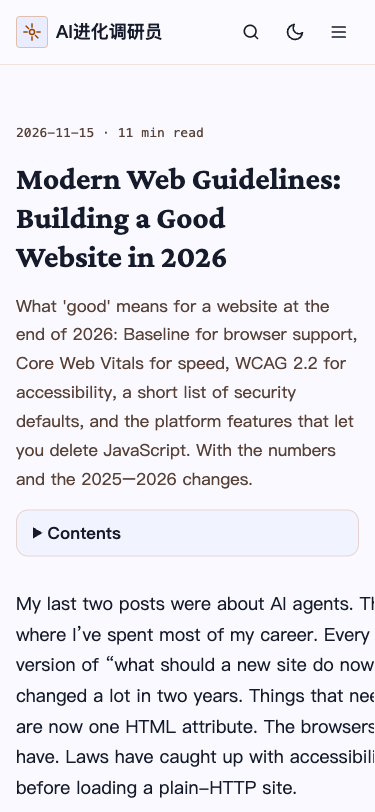
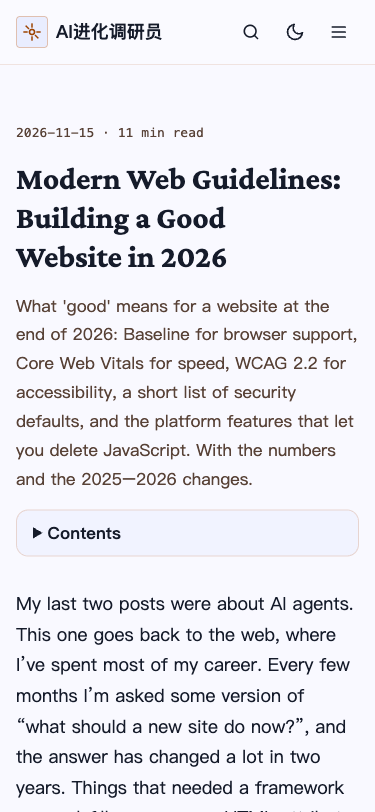
fix: final-review findings (375px overflow, mixed search, paged canonical, popover fallback, entities)
- Grid tracks use minmax(0, 1fr) so long code/tables scroll in their box
  instead of widening the page; new real-viewport layout check at 375px.
- Search merges per-term results (union, ranked by terms matched), so mixed
  zh/en queries still reach English notes.
- Paginated article and category pages declare their own canonical/og:url.
- Browsers without the Popover API get a scrolling nav row, not a stuck menu.
- Entities no longer leak into RSS, index.json or JSON-LD (htmlUnescape after
  plainify and after truncate).
- Raw-HTML warnings from synced text no longer fail the strict build.

Claude-Session: https://claude.ai/code/session_01Q3ZdR2YQmXRkxRrA32nDua

Changed region(s): [[0.0293, 0.7081, 0.9973, 0.9852]]

diff --git a/themes/evo/layouts/_partials/seo.html b/themes/evo/layouts/_partials/seo.html
@@ -1,16 +1,18 @@
 {{- /* SEO head tags: description, canonical, Open Graph, Twitter, verification, feeds, JSON-LD. */ -}}
 {{- $lang := partial "lang.html" . -}}
-{{- $desc := .Params.summary | default .Summary | default site.Params.description | plainify | strings.TrimSpace | truncate 160 -}}
+{{- $desc := .Params.summary | default .Summary | default site.Params.description | plainify | htmlUnescape | strings.TrimSpace | truncate 160 -}}
 {{- if .IsHome }}{{ $desc = site.Params.description }}{{ end -}}
 {{- $img := partial "abs-img-url.html" site.Params.shareImage -}}
 {{- with .Params.cover }}{{ if not (strings.HasSuffix . ".svg") }}{{ $img = partial "abs-img-url.html" . }}{{ end }}{{ end -}}
 {{- $isArticle := and .IsPage (in (slice "articles" "posts") .Section) -}}
+{{- $canon := .Permalink -}}
+{{- if or (and .IsSection (eq .Section "articles")) (and (eq .Kind "term") (eq .Data.Plural "categories")) }}{{ $canon = (partial "article-pager.html" .).URL | absURL }}{{ end -}}
 <meta name="description" content="{{ $desc }}">
-<link rel="canonical" href="{{ .Permalink }}">
+<link rel="canonical" href="{{ $canon }}">
 <meta property="og:site_name" content="{{ site.Title }}">
 <meta property="og:title" content="{{ if .IsHome }}{{ site.Title }}{{ else }}{{ .Title }}{{ end }}">
 <meta property="og:description" content="{{ $desc }}">
-<meta property="og:url" content="{{ .Permalink }}">
+<meta property="og:url" content="{{ $canon }}">
 <meta property="og:image" content="{{ $img }}">
 <meta property="og:locale" content="{{ index hugo.Data.i18n $lang "og_locale" }}">
 <meta property="og:type" content="{{ if $isArticle }}article{{ else }}website{{ end }}">

diff --git a/themes/evo/assets/js/search-core.js b/themes/evo/assets/js/search-core.js
@@ -9,22 +9,24 @@ const OPTIONS = {
   includeScore: true,
 };
 
-// Each whitespace-separated term is searched on its own and the results are intersected,
-// so a mixed query like "agent 记忆" works even though Fuse scores whole strings.
+// Each whitespace-separated term is searched on its own and the results are merged (a union):
+// pages matching more terms rank first, then by average Fuse score. A mixed query like
+// "agent 记忆" therefore still finds English notes that can never contain the Chinese term.
 export function makeSearch(index) {
   const fuse = new Fuse(index, OPTIONS);
   return (query) => {
     const terms = String(query).trim().split(/\s+/).filter(Boolean);
     if (!terms.length) return [];
-    let best = null;
+    const merged = new Map();
     for (const term of terms) {
-      const hits = new Map(fuse.search(term).map((r) => [r.item.permalink, r]));
-      if (!best) { best = hits; continue; }
-      for (const [k, r] of best) {
-        const h = hits.get(k);
-        if (!h) best.delete(k); else r.score += h.score;
+      for (const r of fuse.search(term)) {
+        const m = merged.get(r.item.permalink) ?? { item: r.item, hits: 0, score: 0 };
+        m.hits += 1; m.score += r.score;
+        merged.set(r.item.permalink, m);
       }
     }
-    return [...best.values()].sort((a, b) => a.score - b.score).map((r) => r.item);
+    return [...merged.values()]
+      .sort((a, b) => b.hits - a.hits || a.score / a.hits - b.score / b.hits)
+      .map((m) => m.item);
   };
 }

diff --git a/themes/evo/assets/css/layout.css b/themes/evo/assets/css/layout.css
@@ -30,6 +30,14 @@ main:focus { outline: none; }
 .mobile-menu__close { position: absolute; inset-block-start: var(--space-m); inset-inline-end: var(--space-m); }
 .mobile-menu__nav { display: grid; gap: var(--space-m); margin-block-start: var(--space-xl); font-family: var(--font-display); font-size: 1.75rem; font-weight: 700; }
 
+/* Browsers without the Popover API (e.g. iOS < 17) would render the menu permanently:
+   hide it and its button, and show the nav as a scrolling row under the header instead. */
+@supports not selector(:popover-open) {
+  .mobile-menu, .site-header__menu { display: none; }
+  .site-header__inner { flex-wrap: wrap; block-size: auto; padding-block: var(--space-s); }
+  .site-nav { display: flex; order: 3; inline-size: 100%; overflow-x: auto; }
+}
+
 /* Footer */
 .site-footer { margin-block-start: var(--space-section); border-block-start: 1px solid color-mix(in srgb, var(--color-border) 40%, transparent); background: color-mix(in srgb, var(--color-surface) 40%, transparent); }
 .site-footer__inner { display: grid; gap: var(--space-l); padding-block: var(--space-xl); }

diff --git a/themes/evo/assets/css/components/card.css b/themes/evo/assets/css/components/card.css
@@ -1,6 +1,6 @@
-.stack-section { display: grid; gap: var(--space-section); padding-block: var(--space-xl) 0; }
+.stack-section { display: grid; grid-template-columns: minmax(0, 1fr); gap: var(--space-section); padding-block: var(--space-xl) 0; }
 @media (min-width: 768px) { .stack-section { padding-block-start: var(--space-section); } }
-.stack { display: grid; gap: var(--space-l); }
+.stack { display: grid; grid-template-columns: minmax(0, 1fr); gap: var(--space-l); }
 .section-head { display: flex; flex-wrap: wrap; align-items: baseline; justify-content: space-between; gap: var(--space-m); padding-block-end: var(--space-s); border-block-end: 1px solid color-mix(in srgb, var(--color-border) 40%, transparent); }
 .section-head h2 { font-size: var(--size-h3); }
 .section-head p { font-size: var(--size-small); color: var(--color-muted); }

diff --git a/themes/evo/assets/css/components/prose.css b/themes/evo/assets/css/components/prose.css
@@ -5,7 +5,8 @@
 .article__summary { color: var(--color-muted); }
 .article-meta { display: flex; flex-wrap: wrap; align-items: center; gap: var(--space-s) var(--space-m); }
 .article-meta a.meta-line { text-decoration: none; }
-.article__layout { display: grid; gap: var(--space-xl); }
+.article__layout { display: grid; grid-template-columns: minmax(0, 1fr); gap: var(--space-xl); }
+.prose { min-inline-size: 0; }
 @media (min-width: 1024px) {
   .article__layout { grid-template-columns: minmax(0, 760px) 260px; justify-content: space-between; }
   .toc-inline { display: none; }

diff --git a/themes/evo/layouts/notes/section.html b/themes/evo/layouts/notes/section.html
@@ -10,7 +10,7 @@
       <time datetime="{{ .Date.Format "2006-01-02" }}">{{ .Date.Format "2006-01-02" }}</time>
       <div>
         <h2><a href="{{ .RelPermalink }}">{{ .Title }}</a></h2>
-        {{ with .Summary }}<p>{{ . | plainify | truncate 160 }}</p>{{ end }}
+        {{ with .Summary }}<p>{{ . | plainify | htmlUnescape | truncate 160 }}</p>{{ end }}
         {{ with .Params.tags }}<p class="note-list__tags">{{ range . }}<span>#{{ . }}</span>{{ end }}</p>{{ end }}
       </div>
     </li>

diff --git a/themes/evo/layouts/_partials/card.html b/themes/evo/layouts/_partials/card.html
@@ -3,7 +3,7 @@
   <div class="card__body">
     {{ partial "category-chip.html" . }}
     <h3 class="card__title"><a class="card__link" href="{{ .RelPermalink }}">{{ .Title }}</a></h3>
-    {{ with .Summary }}<p class="card__summary">{{ . | plainify }}</p>{{ end }}
+    {{ with .Summary }}<p class="card__summary">{{ . | plainify | htmlUnescape }}</p>{{ end }}
     <div class="card__foot">{{ partial "meta-line.html" . }}</div>
   </div>
 </article>

diff --git a/themes/evo/layouts/_partials/hero.html b/themes/evo/layouts/_partials/hero.html
@@ -3,6 +3,6 @@
   <div class="hero__body">
     <div class="hero__meta">{{ partial "category-chip.html" . }}{{ partial "meta-line.html" . }}</div>
     <h2 class="hero__title"><a class="card__link" href="{{ .RelPermalink }}">{{ .Title }}</a></h2>
-    {{ with .Summary }}<p class="hero__summary">{{ . | plainify }}</p>{{ end }}
+    {{ with .Summary }}<p class="hero__summary">{{ . | plainify | htmlUnescape }}</p>{{ end }}
   </div>
 </article>

diff --git a/themes/evo/layouts/_partials/article-list.html b/themes/evo/layouts/_partials/article-list.html
@@ -9,7 +9,7 @@
   </header>
   {{ partial "category-bar.html" (dict "page" $p "current" .current) }}
   {{- if .pages }}
-  {{- $pager := $p.Paginate .pages.ByDate.Reverse 9 }}
+  {{- $pager := partial "article-pager.html" $p }}
   <div class="card-grid">{{ range $pager.Pages }}{{ partial "card.html" . }}{{ end }}</div>
   {{ partial "pager.html" (dict "page" $p "pager" $pager) }}
   {{- else }}

diff --git a/themes/evo/layouts/_partials/jsonld-article.html b/themes/evo/layouts/_partials/jsonld-article.html
@@ -3,7 +3,7 @@
   "@context" "https://schema.org"
   "@type" "Article"
   "headline" .Title
-  "description" (.Summary | plainify | strings.TrimSpace)
+  "description" (.Summary | plainify | htmlUnescape | strings.TrimSpace)
   "datePublished" (.Date.Format "2006-01-02T15:04:05Z07:00")
   "dateModified" (.Lastmod.Format "2006-01-02T15:04:05Z07:00")
   "image" $img

diff --git a/themes/evo/layouts/_partials/article-pager.html b/themes/evo/layouts/_partials/article-pager.html
@@ -1,0 +1,4 @@
+{{- /* The paginator for an article listing (the articles section or a category term). Shared by the
+     list template and the SEO partial so both see the same pager (Hugo memoizes .Paginate per page). */ -}}
+{{- $pages := cond (eq .Kind "term") .Pages .RegularPages -}}
+{{- return (.Paginate $pages.ByDate.Reverse 9) -}}

diff --git a/docs/screenshots/redesign/lighthouse.md b/docs/screenshots/redesign/lighthouse.md
@@ -19,3 +19,7 @@ Browser checks (Puppeteer, headless Chrome):
 
 - 11 pages × {1280, 375} × {light, dark}: no horizontal scroll, the theme follows the system preference, no console errors. Screenshots are in this folder (1280 dark and 375 light).
 - Edge fixture (an extremely long unbroken title, a long URL, wide code and a table, a broken R2 cover and a broken cover video) × {JS on, JS off} × {motion, reduced motion}, 37 assertions: no overflow, all content visible, the cover keeps its 16:9 or 21:9 box, and no video plays with JS off or reduced motion.
+
+## After the final review
+
+The first browser pass used Puppeteer's mobile emulation (`isMobile: true`). In that mode the layout viewport grows to fit overflowing content, so `scrollWidth <= innerWidth` could never fail. The review measured horizontal scroll at 375px on long-form pages: 639px on `/posts/modern-web-guidelines/` and 481px on `/wiki/concepts/agent-loop/`. Grid tracks now use `minmax(0, 1fr)`, and the layout check (`scripts/check-layout.mjs`, run by `check-site.sh`) uses a real 375px viewport with no emulation. All 44 page/width/theme combinations and all 37 edge-case assertions pass on that check.
